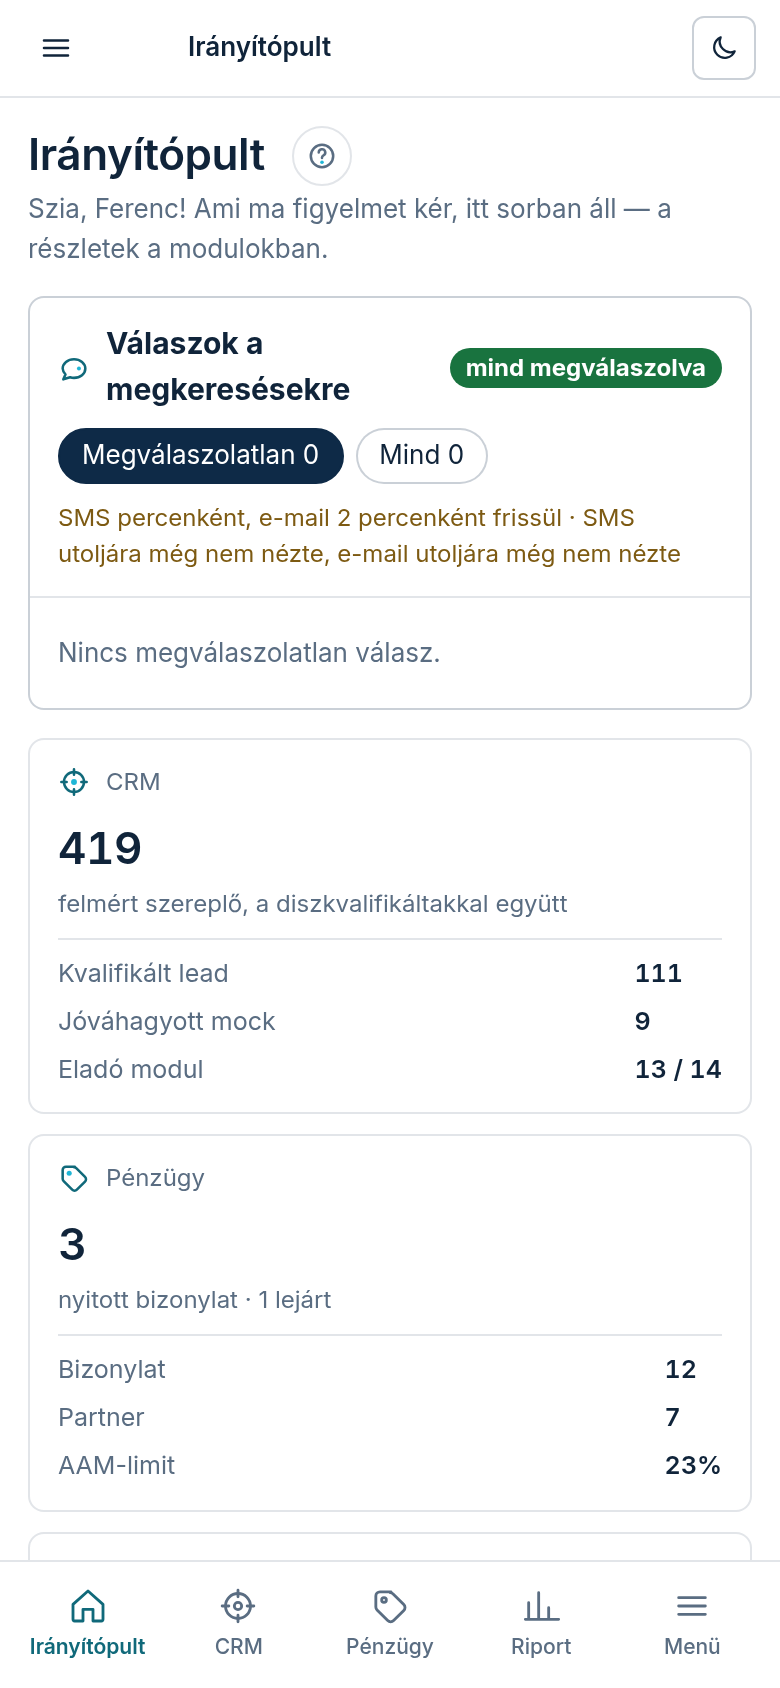
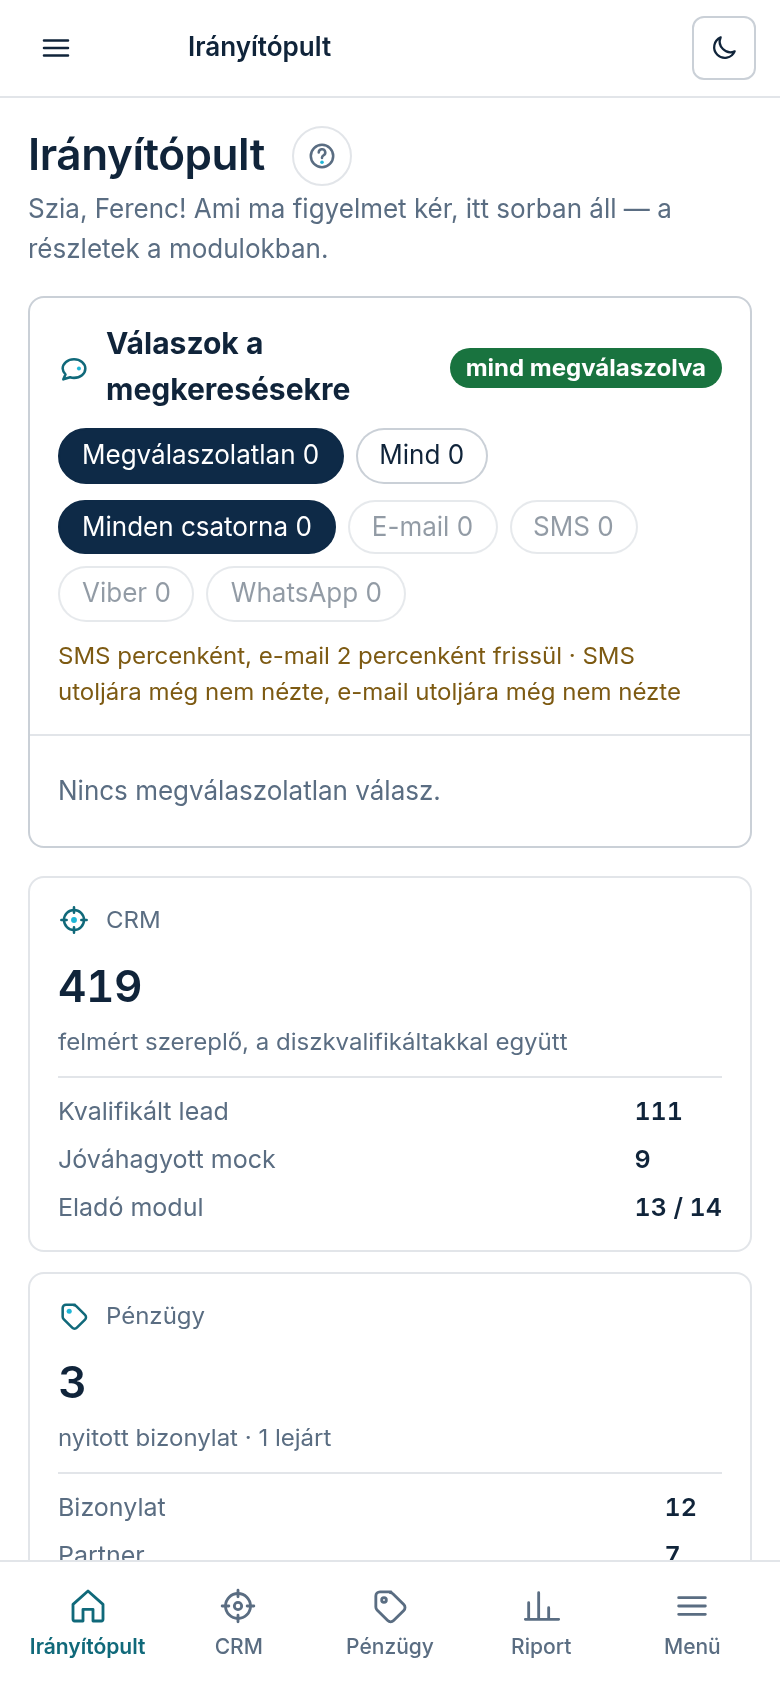
fix(console): a Válaszok csatorna-szűrője mobilon tördel + friss irányítópult súgó-kép (ADR-0430)
Claude-Session: https://claude.ai/code/session_01H78ew9gky431HXjPYpBAC5

diff --git a/public/assets/ui/citui-console.css b/public/assets/ui/citui-console.css
@@ -834,7 +834,7 @@
 .con-rep__t svg { color: var(--citui-link-ink); flex: 0 0 auto; }
 .con-rep__badge { white-space: nowrap; background: var(--citui-bad-ink); color: var(--citui-panel); border-radius: var(--citui-radius-pill); font-size: 12px; font-weight: 700; padding: 1px 8px; }
 .con-rep__badge.is-zero { background: var(--citui-ok-ink); }
-.con-rep__chips { display: flex; gap: 6px; }
+.con-rep__chips { display: flex; flex-wrap: wrap; gap: 6px; }
 .con .con-rep__chip { font-size: 13px; border: 1px solid var(--citui-line-strong); background: var(--citui-panel); border-radius: var(--citui-radius-pill); padding: 3px 11px; color: var(--citui-ink); white-space: nowrap; }
 .con .con-rep__chip:hover { text-decoration: none; border-color: var(--citui-cyan-500); }
 .con .con-rep__chip[aria-current="true"] { background: var(--citui-navy-900); border-color: var(--citui-navy-900); color: var(--citui-white); }
